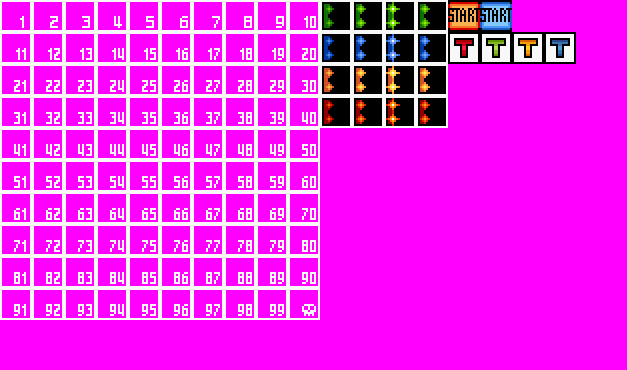
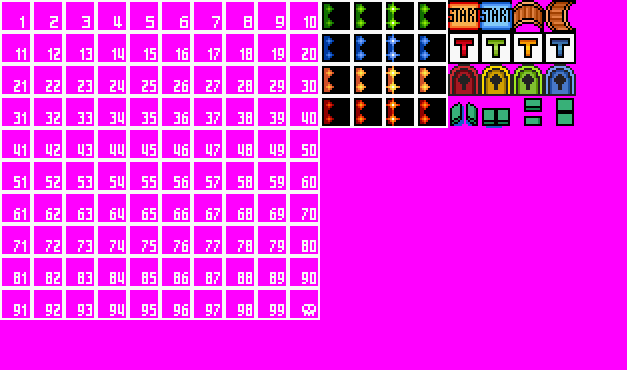
1) Started work on opening and closing bridges. 2) Added gfx for world items 3) Advance turn item working

Changed region(s): [[0.697, 0.1486, 0.9394, 0.3568], [0.8182, 0.0, 0.9394, 0.0892]]

diff --git a/_src/world.cpp b/_src/world.cpp
@@ -492,59 +492,14 @@ bool WorldMap::Load()
 
 				//1 == |  2 == -  3 == -!  4 == L  5 == ,-  6 == -,
 				//7 == -|  8 == -`-  9 == |-  10 == -,-  11 == +
+				//12 == horizontal bridge starts open,  13 == horizontal bridge closed
+				//14 == vertical bridge starts open,  15 == vertical bridge closed
 				for(short iRow = 0; iRow < iHeight; iRow++)
 				{
 					for(short iCol = 0; iCol < iWidth; iCol++)
 					{
-						WorldMapTile * tile = &tiles[iCol][iRow];
-
-						for(short iDirection = 0; iDirection < 4; iDirection++)
-							tile->fConnection[iDirection] = false;
-
-						if(iRow > 0)
-						{
-							WorldMapTile * topTile = &tiles[iCol][iRow - 1];
-
-							tile->fConnection[0] = (topTile->iConnectionType == 1 || topTile->iConnectionType == 5 || topTile->iConnectionType == 6 || 
-								topTile->iConnectionType == 7 || topTile->iConnectionType == 9 || topTile->iConnectionType == 10 ||
-								topTile->iConnectionType == 11) && (tile->iConnectionType == 1 || tile->iConnectionType == 3 ||
-								tile->iConnectionType == 4 || tile->iConnectionType == 7 || tile->iConnectionType == 8 ||
-								tile->iConnectionType == 9 || tile->iConnectionType == 11);
-						}
-
-						if(iRow < iHeight - 1)
-						{
-							WorldMapTile * bottomTile = &tiles[iCol][iRow + 1];
-
-							tile->fConnection[1] = (bottomTile->iConnectionType == 1 || bottomTile->iConnectionType == 3 || bottomTile->iConnectionType == 4 || 
-								bottomTile->iConnectionType == 7 || bottomTile->iConnectionType == 8 || bottomTile->iConnectionType == 9 ||
-								bottomTile->iConnectionType == 11) && (tile->iConnectionType == 1 || tile->iConnectionType == 5 ||
-								tile->iConnectionType == 6 || tile->iConnectionType == 7 || tile->iConnectionType == 9 ||
-								tile->iConnectionType == 10 || tile->iConnectionType == 11);
-						}
-
-						if(iCol > 0)
-						{
-							WorldMapTile * leftTile = &tiles[iCol - 1][iRow];
-
-							tile->fConnection[2] = (leftTile->iConnectionType == 2 || leftTile->iConnectionType == 4 || leftTile->iConnectionType == 5 || 
-								leftTile->iConnectionType == 8 || leftTile->iConnectionType == 9 || leftTile->iConnectionType == 10 ||
-								leftTile->iConnectionType == 11) && (tile->iConnectionType == 2 || tile->iConnectionType == 3 ||
-								tile->iConnectionType == 6 || tile->iConnectionType == 7 || tile->iConnectionType == 8 ||
-								tile->iConnectionType == 10 || tile->iConnectionType == 11);
-						}
-
-						if(iCol < iWidth - 1)
-						{
-							WorldMapTile * rightTile = &tiles[iCol + 1][iRow];
-
-							tile->fConnection[3] = (rightTile->iConnectionType == 2 || rightTile->iConnectionType == 3 || rightTile->iConnectionType == 6 || 
-								rightTile->iConnectionType == 7 || rightTile->iConnectionType == 8 || rightTile->iConnectionType == 10 ||
-								rightTile->iConnectionType == 11) && (tile->iConnectionType == 2 || tile->iConnectionType == 4 ||
-								tile->iConnectionType == 5 || tile->iConnectionType == 8 || tile->iConnectionType == 9 ||
-								tile->iConnectionType == 10 || tile->iConnectionType == 11);
-						}
-					}	
+						SetTileConnections(iCol, iRow);
+					}
 				}
 			}
 		}
@@ -707,6 +662,63 @@ RETURN:
 	fclose(file);
 
 	return iReadType == 13;
+}
+
+void WorldMap::SetTileConnections(short iCol, short iRow)
+{
+	if(iCol < 0 || iRow < 0 || iCol >= iWidth || iRow >= iHeight)
+		return;
+
+	WorldMapTile * tile = &tiles[iCol][iRow];
+
+	for(short iDirection = 0; iDirection < 4; iDirection++)
+		tile->fConnection[iDirection] = false;
+
+	if(iRow > 0)
+	{
+		WorldMapTile * topTile = &tiles[iCol][iRow - 1];
+
+		tile->fConnection[0] = (topTile->iConnectionType == 1 || topTile->iConnectionType == 5 || topTile->iConnectionType == 6 || 
+			topTile->iConnectionType == 7 || topTile->iConnectionType == 9 || topTile->iConnectionType == 10 ||
+			topTile->iConnectionType == 11 || topTile->iConnectionType == 15) && (tile->iConnectionType == 1 || 
+			tile->iConnectionType == 3 || tile->iConnectionType == 4 || tile->iConnectionType == 7 || 
+			tile->iConnectionType == 8 || tile->iConnectionType == 9 || tile->iConnectionType == 11 || 
+			tile->iConnectionType == 15);
+	}
+
+	if(iRow < iHeight - 1)
+	{
+		WorldMapTile * bottomTile = &tiles[iCol][iRow + 1];
+
+		tile->fConnection[1] = (bottomTile->iConnectionType == 1 || bottomTile->iConnectionType == 3 || bottomTile->iConnectionType == 4 || 
+			bottomTile->iConnectionType == 7 || bottomTile->iConnectionType == 8 || bottomTile->iConnectionType == 9 ||
+			bottomTile->iConnectionType == 11 || bottomTile->iConnectionType == 15) && (tile->iConnectionType == 1 || 
+			tile->iConnectionType == 5 || tile->iConnectionType == 6 || tile->iConnectionType == 7 || 
+			tile->iConnectionType == 9 || tile->iConnectionType == 10 || tile->iConnectionType == 11 || 
+			tile->iConnectionType == 15);
+	}
+
+	if(iCol > 0)
+	{
+		WorldMapTile * leftTile = &tiles[iCol - 1][iRow];
+
+		tile->fConnection[2] = (leftTile->iConnectionType == 2 || leftTile->iConnectionType == 4 || leftTile->iConnectionType == 5 || 
+			leftTile->iConnectionType == 8 || leftTile->iConnectionType == 9 || leftTile->iConnectionType == 10 ||
+			leftTile->iConnectionType == 11 || leftTile->iConnectionType == 13) && (tile->iConnectionType == 2 || tile->iConnectionType == 3 ||
+			tile->iConnectionType == 6 || tile->iConnectionType == 7 || tile->iConnectionType == 8 ||
+			tile->iConnectionType == 10 || tile->iConnectionType == 11 || tile->iConnectionType == 13);
+	}
+
+	if(iCol < iWidth - 1)
+	{
+		WorldMapTile * rightTile = &tiles[iCol + 1][iRow];
+
+		tile->fConnection[3] = (rightTile->iConnectionType == 2 || rightTile->iConnectionType == 3 || rightTile->iConnectionType == 6 || 
+			rightTile->iConnectionType == 7 || rightTile->iConnectionType == 8 || rightTile->iConnectionType == 10 ||
+			rightTile->iConnectionType == 11 || rightTile->iConnectionType == 13) && (tile->iConnectionType == 2 || tile->iConnectionType == 4 ||
+			tile->iConnectionType == 5 || tile->iConnectionType == 8 || tile->iConnectionType == 9 ||
+			tile->iConnectionType == 10 || tile->iConnectionType == 11 || tile->iConnectionType == 13);
+	}
 }
 
 //Saves world to file
@@ -1077,22 +1089,19 @@ void WorldMap::DrawMapToSurface(bool fInit, SDL_Surface * surface, short iMapDra
 				}
 				else if(iForegroundSprite >= WORLD_WINNING_TEAM_SPRITE_OFFSET && iForegroundSprite <= WORLD_WINNING_TEAM_SPRITE_OFFSET + 3)
 				{
-					SDL_Rect rSrc = {(iForegroundSprite - WORLD_WINNING_TEAM_SPRITE_OFFSET + 15) << 5, TILESIZE, TILESIZE, TILESIZE};
+					SDL_Rect rSrc = {(iForegroundSprite - WORLD_WINNING_TEAM_SPRITE_OFFSET + 15) << 5, 32, TILESIZE, TILESIZE};
 					SDL_BlitSurface(spr_worldforeground.getSurface(), &rSrc, surface, &r);
 				}
-
-				/*
-				if(iForegroundSprite == 1 || iForegroundSprite == 2)
+				else if(iForegroundSprite >= WORLD_DOOR_SPRITE_OFFSET && iForegroundSprite <= WORLD_DOOR_SPRITE_OFFSET + 3)
 				{
-					SDL_Rect rSrc = {96, iForegroundSprite << 5, TILESIZE, TILESIZE};
-					SDL_BlitSurface(spr_worldbackground.getSurface(), &rSrc, surface, &r);
+					SDL_Rect rSrc = {(iForegroundSprite - WORLD_DOOR_SPRITE_OFFSET + 14) << 5, 64, TILESIZE, TILESIZE};
+					SDL_BlitSurface(spr_worldforeground.getSurface(), &rSrc, surface, &r);
 				}
-				else if(iForegroundSprite >= 3 && iForegroundSprite <= 6)
+				else if(iForegroundSprite >= WORLD_BRIDGE_SPRITE_OFFSET && iForegroundSprite <= WORLD_BRIDGE_SPRITE_OFFSET + 3)
 				{
-					SDL_Rect rSrc = {iAnimationFrame, (iForegroundSprite + 14) << 5, TILESIZE, TILESIZE};
-					SDL_BlitSurface(spr_worldbackground.getSurface(), &rSrc, surface, &r);
+					SDL_Rect rSrc = {(iForegroundSprite - WORLD_BRIDGE_SPRITE_OFFSET + 14) << 5, 96, TILESIZE, TILESIZE};
+					SDL_BlitSurface(spr_worldforeground.getSurface(), &rSrc, surface, &r);
 				}
-				*/
 			}
 		}
 	}		
@@ -1247,4 +1256,51 @@ short WorldMap::NumVehiclesInTile(short iTileX, short iTileY)
 short WorldMap::GetVehicleStageScore(short iVehicleIndex)
 {
 	return game_values.tourstops[vehicles[iVehicleIndex].iActionId]->iPoints;
+}
+
+void WorldMap::MoveBridges()
+{
+	for(short iRow = 0; iRow < iHeight; iRow++)
+	{
+		for(short iCol = 0; iCol < iWidth; iCol++)
+		{
+			if(tiles[iCol][iRow].iConnectionType == 12)
+			{
+				tiles[iCol][iRow].iConnectionType = 13;
+				SetTileConnections(iCol, iRow);
+				SetTileConnections(iCol - 1, iRow);
+				SetTileConnections(iCol + 1, iRow);
+			}
+			else if(tiles[iCol][iRow].iConnectionType == 13)
+			{
+				tiles[iCol][iRow].iConnectionType = 12;
+				SetTileConnections(iCol, iRow);
+				SetTileConnections(iCol - 1, iRow);
+				SetTileConnections(iCol + 1, iRow);
+			}
+			else if(tiles[iCol][iRow].iConnectionType == 14)
+			{
+				tiles[iCol][iRow].iConnectionType = 15;
+				SetTileConnections(iCol, iRow);
+				SetTileConnections(iCol, iRow - 1);
+				SetTileConnections(iCol, iRow + 1);
+			}
+			else if(tiles[iCol][iRow].iConnectionType == 15)
+			{
+				tiles[iCol][iRow].iConnectionType = 14;
+				SetTileConnections(iCol, iRow);
+				SetTileConnections(iCol, iRow - 1);
+				SetTileConnections(iCol, iRow + 1);
+			}
+
+			if(tiles[iCol][iRow].iForegroundSprite == WORLD_BRIDGE_SPRITE_OFFSET)
+				tiles[iCol][iRow].iForegroundSprite = WORLD_BRIDGE_SPRITE_OFFSET + 1;
+			else if(tiles[iCol][iRow].iForegroundSprite == WORLD_BRIDGE_SPRITE_OFFSET + 1)
+				tiles[iCol][iRow].iForegroundSprite = WORLD_BRIDGE_SPRITE_OFFSET;
+			else if(tiles[iCol][iRow].iForegroundSprite == WORLD_BRIDGE_SPRITE_OFFSET + 2)
+				tiles[iCol][iRow].iForegroundSprite = WORLD_BRIDGE_SPRITE_OFFSET + 3;
+			else if(tiles[iCol][iRow].iForegroundSprite == WORLD_BRIDGE_SPRITE_OFFSET + 3)
+				tiles[iCol][iRow].iForegroundSprite = WORLD_BRIDGE_SPRITE_OFFSET + 2;
+		}
+	}
 }

diff --git a/_src/uicontrol.cpp b/_src/uicontrol.cpp
@@ -4262,9 +4262,13 @@ void MI_World::SetCurrentStageToCompleted(short iWinningTeam)
 		game_values.tournament_scores[iWinningTeam].total += game_values.tourstops[tile->iType - 2]->iPoints;
 	}
 
-	g_worldmap.MoveVehicles();
+	AdvanceTurn();
+}
 
-	//TODO:: Switch bridge states (open/closed)
+void MI_World::AdvanceTurn()
+{
+	g_worldmap.MoveVehicles();
+	g_worldmap.MoveBridges();
 
 	//Update the completed stage with team colored tile on the map
 	g_worldmap.DrawMapToSurface(true, sMapSurface, iMapDrawOffsetCol, iMapDrawOffsetRow, iAnimationFrame);
@@ -4520,7 +4524,11 @@ void MI_World::Draw()
 			short iStartItem = iItemPage << 3;
 			for(short iItem = iStartItem; iItem < iStartItem + 8 && iItem < iNumPowerups; iItem++)
 			{
-				spr_worlditems.draw((iItem - iItemPage * 8) * 52 + 122, 432, game_values.worldpowerups[iTeam][iItem] * 32, 0, 32, 32);
+				short iPowerup = game_values.worldpowerups[iTeam][iItem];
+				if(iPowerup >= NUM_POWERUPS)
+					spr_worlditems.draw((iItem - iItemPage * 8) * 52 + 122, 432, (iPowerup - NUM_POWERUPS) << 5, 0, 32, 32);
+				else
+					spr_storedpoweruplarge.draw((iItem - iItemPage * 8) * 52 + 122, 432, iPowerup << 5, 0, 32, 32);
 			}
 		}
 	}
@@ -4552,10 +4560,11 @@ MenuCodeEnum MI_World::SendInput(CPlayerInput * playerInput)
 		
 		if(iState == -1)
 		{
+
+#ifdef _DEBUG
 			if(playerKeys->menu_scrollfast.fPressed)
-			{
-				g_worldmap.MoveVehicles();
-			}
+				AdvanceTurn();
+#endif
 
 			if(iControllingTeam == LookupTeamID(iPlayer) && iPlayerState == 0 && game_values.playercontrol[iPlayer] > 0) //if this player is player or cpu
 			{
@@ -4706,6 +4715,10 @@ MenuCodeEnum MI_World::SendInput(CPlayerInput * playerInput)
 						{
 							game_values.storedpowerups[game_values.teamids[iTeam][iPlayer]] = iPowerup;
 						}
+					}
+					else if(iPowerup == NUM_POWERUPS + 3)
+					{
+						AdvanceTurn();
 					}
 				}
 

diff --git a/_src/splash.cpp b/_src/splash.cpp
@@ -212,8 +212,8 @@ bool LoadMenuGraphics()
 	_load_gfxck(spr_worldforeground, convertPath("gfx/packs/world/world_foreground.png", graphicspack));
 	_load_gfxck(spr_worldpaths, convertPath("gfx/packs/world/world_paths.png", graphicspack));
 	_load_gfxck(spr_worldvehicle, convertPath("gfx/packs/world/world_vehicles.png", graphicspack));
-	_load_gfxck(spr_worlditems, convertPath("gfx/packs/menu/world_items.png", graphicspack));
-	_load_gfxck(spr_worlditempopup, convertPath("gfx/packs/menu/world_item_popup.png", graphicspack));
+	_load_gfxck(spr_worlditems, convertPath("gfx/packs/world/world_powerups.png", graphicspack));
+	_load_gfxck(spr_worlditempopup, convertPath("gfx/packs/world/world_item_popup.png", graphicspack));
 
 	return true;
 }

diff --git a/_src/worldeditor.cpp b/_src/worldeditor.cpp
@@ -497,6 +497,9 @@ int editor_edit()
 								{
 									g_worldmap.tiles[iCol][iRow].iForegroundSprite = set_tile;
 									updateworldsurface();
+
+									if(set_tile >= WORLD_BRIDGE_SPRITE_OFFSET && set_tile <= WORLD_BRIDGE_SPRITE_OFFSET + 3)
+										g_worldmap.tiles[iCol][iRow].iConnectionType = set_tile - WORLD_BRIDGE_SPRITE_OFFSET + 12;
 								}
 							}
 							else if(edit_mode == 2) //selected connection

diff --git a/_src/global.h b/_src/global.h
@@ -203,8 +203,10 @@ std::string stripCreatorAndDotMap(const std::string &filename);
 
 #define NUM_AUTO_FILTERS 8
 
-#define WORLD_WINNING_TEAM_SPRITE_OFFSET 500
 #define WORLD_FOREGROUND_SPRITE_OFFSET 100
+#define WORLD_WINNING_TEAM_SPRITE_OFFSET 500
+#define WORLD_DOOR_SPRITE_OFFSET 504
+#define WORLD_BRIDGE_SPRITE_OFFSET 508
 
 //------------- data structures / selfmade include files -------------
 #include "input.h"

diff --git a/_src/uicontrol.h b/_src/uicontrol.h
@@ -910,6 +910,8 @@ class MI_World : public UI_Control
 		void RepositionMapImage();
 		void DrawWorldMapToSurface(bool fInit);
 
+		void AdvanceTurn();
+
 		short iState;
 		short iTeam;
 		short iStateTransition;
@@ -949,6 +951,7 @@ class MI_World : public UI_Control
 		float dTeleportStarAngle;
 		short iTeleportStarAnimationFrame;
 		short iTeleportStarAnimationTimer;
+
 };
 
 

diff --git a/_src/menu.cpp b/_src/menu.cpp
@@ -2603,7 +2603,7 @@ void Menu::RunMenu()
 							game_values.worldpowerupcount[iPlayer] = rand() % 32;
 
 							for(short iItem = 0; iItem < game_values.worldpowerupcount[iPlayer]; iItem++)
-								game_values.worldpowerups[iPlayer][iItem] = rand() % NUM_POWERUPS;
+								game_values.worldpowerups[iPlayer][iItem] = rand() % NUM_POWERUPS + 9;
 						}
 
 						miWorld->Init();

diff --git a/_src/object.cpp b/_src/object.cpp
@@ -3041,7 +3041,10 @@ void PU_TreasureChestBonus::draw()
 	}
 	else
 	{
-		spr_worlditems.draw(ix, drawbonusitemy, bonusitem << 5, 0, 32, 32);
+		if(bonusitem >= NUM_POWERUPS)
+			spr_worlditems.draw(ix, drawbonusitemy, (bonusitem - NUM_POWERUPS) << 5, 0, 32, 32);
+		else
+			spr_storedpoweruplarge.draw(ix, drawbonusitemy, bonusitem << 5, 0, 32, 32);
 	}
 }
 

diff --git a/_src/world.h b/_src/world.h
@@ -158,10 +158,12 @@ class WorldMap
 		short NumVehiclesInTile(short iTileX, short iTileY);
 
 		short GetVehicleStageScore(short iVehicleIndex);
+		void MoveBridges();
 
 	private:
 
 		void Cleanup();
+		void SetTileConnections(short iCol, short iRow);
 
 		short iWidth;
 		short iHeight;
